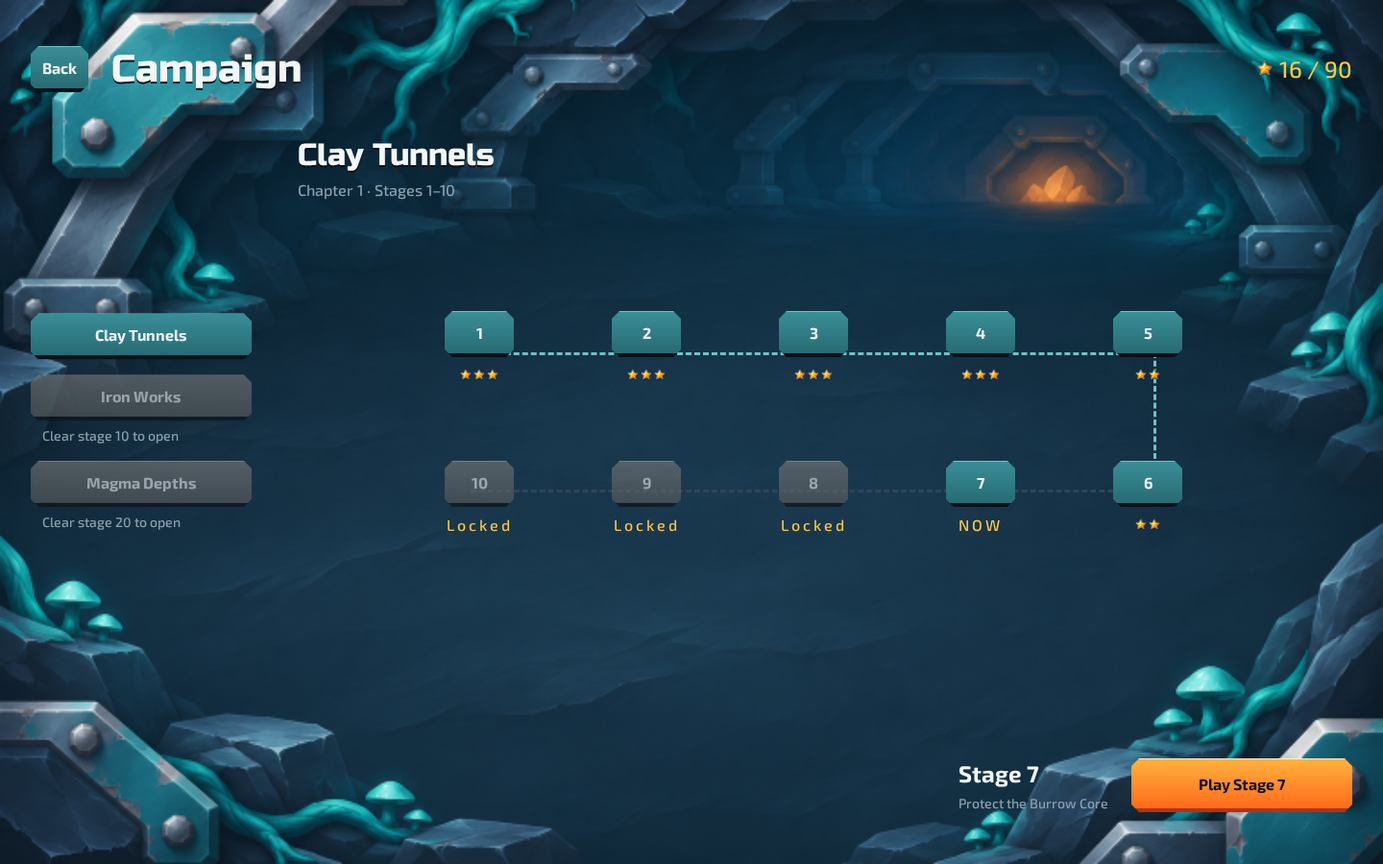
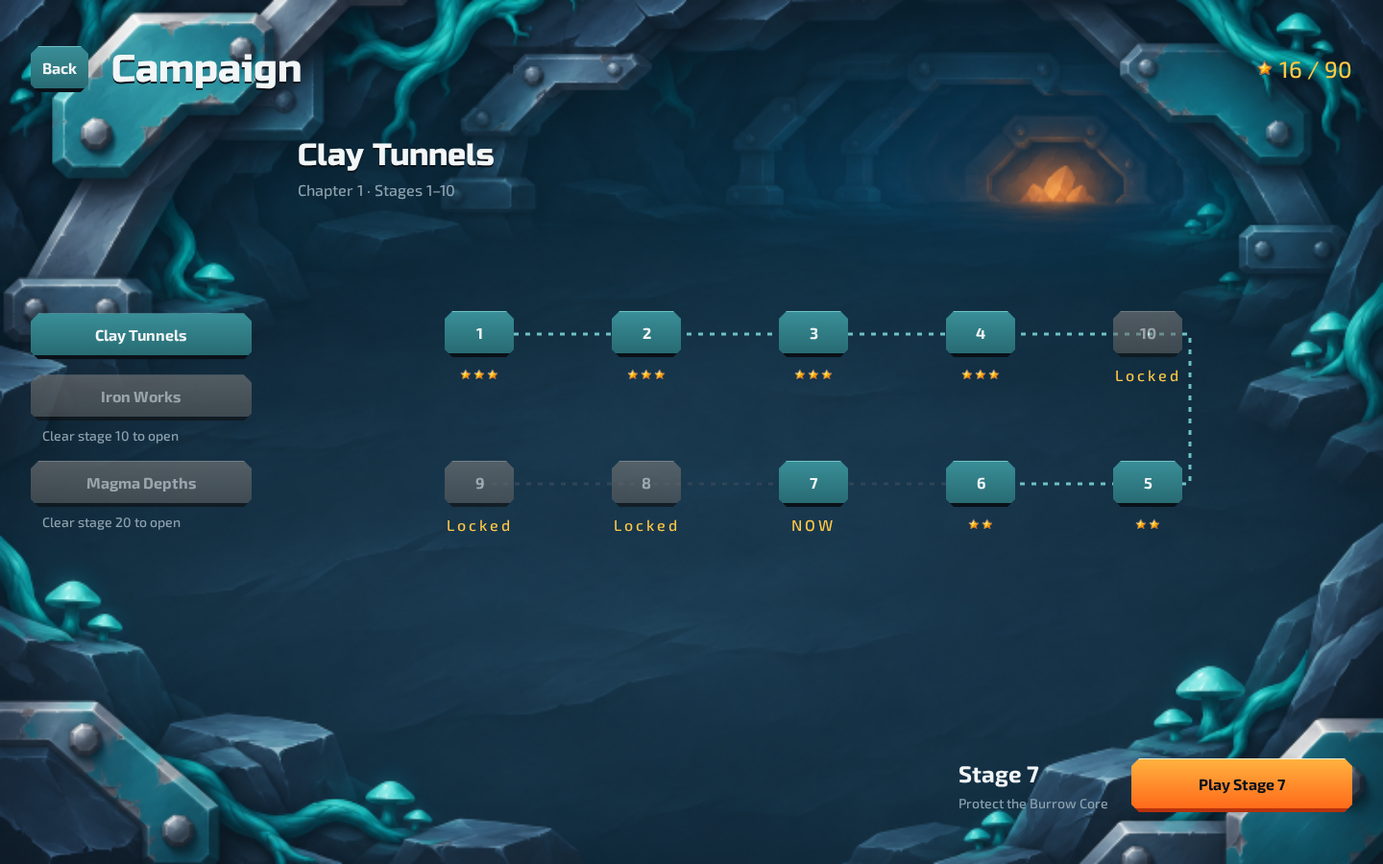
[checkpoint] step 6afed5bc4b8d342701213777

Changed region(s): [[0.7812, 0.3422, 0.875, 0.4667], [0.5625, 0.5289, 0.625, 0.6222], [0.6875, 0.5911, 0.7188, 0.6222]]

diff --git a/design/mockups/main/stage-map/index.html b/design/mockups/main/stage-map/index.html
@@ -5,6 +5,7 @@
 @media(min-width:700px) and (max-height:550px){#screen{grid-template:48px 1fr 64px / 152px 1fr 180px;padding:12px;gap:8px}.map-header h1{font-size:24px}.map-header .total{font-size:18px}.chapters{gap:8px}.chapter-slot small{font-size:11px}.map-caption{top:0;left:8px}.map-caption h2{font-size:20px;margin:0}.map-caption p{font-size:13px}.nodes{height:168px;margin-top:34px;gap:8px}.nodes:before{height:84px}.node{gap:2px}.node [data-kit-host]{width:58px}.node .stars{font-size:12px;height:14px}.map-footer{gap:16px}.selected-copy strong{font-size:18px}.play-slot{min-width:180px}}
 @media(max-width:699px){#screen{display:grid;grid-template:54px 122px 1fr 104px / 1fr;gap:12px;padding:16px}.map-header{grid-column:1;gap:12px}.map-header h1{font-size:24px}.map-header .total{font-size:18px}.chapters{display:grid;grid-template-columns:repeat(3,1fr);gap:8px;align-self:start}.chapter-slot small{display:none}.map-content{grid-column:1}.map-caption{top:0;left:8px}.map-caption h2{font-size:24px}.map-caption p{font-size:14px}.nodes{width:240px;height:100%;max-height:430px;margin-top:32px;grid-template-columns:1fr 1fr;grid-template-rows:repeat(5,1fr);gap:2px 32px}.nodes:before{left:25%;right:25%;top:10%;bottom:10%;height:auto;border:0;border-left:3px dashed #6FC2C4;border-right:3px dashed #2F4558}.node{gap:0}.node [data-kit-host]{width:64px}.node .stars{font-size:12px;height:15px}.node:nth-child(1){grid-area:1/1}.node:nth-child(2){grid-area:1/2}.node:nth-child(3){grid-area:2/2}.node:nth-child(4){grid-area:2/1}.node:nth-child(5){grid-area:3/1}.node:nth-child(6){grid-area:3/2}.node:nth-child(7){grid-area:4/2}.node:nth-child(8){grid-area:4/1}.node:nth-child(9){grid-area:5/1}.node:nth-child(10){grid-area:5/2}.map-footer{grid-column:1;gap:12px;align-items:center}.selected-copy strong{font-size:18px}.selected-copy small{font-size:12px}.play-slot{min-width:180px}}
 @media(max-width:699px){#screen{grid-template-rows:54px 72px 1fr 104px}.nodes{height:340px;max-height:none;margin-top:64px}.map-caption p{margin-top:4px}}
+.nodes:before{display:none}.route-lines{position:absolute;inset:0;width:100%;height:100%;pointer-events:none;z-index:0}@media(max-width:699px){.chapters{--preview-control-height:64px}}
 </style></head><body><main id="screen"></main><script type="module">
 import {boot,button,t} from '../../shared.mjs';
 const app=await boot('stage-map');
@@ -13,5 +14,5 @@ button(app.root.querySelector('#back'),t('ui.common.back'),{onclick:()=>location
 for(let i=1;i<=3;i++){const slot=document.createElement('div');slot.className='chapter-slot';slot.dataset.part='chapter-tab';slot.dataset.state=i===1?'open':'locked';app.root.querySelector('.chapters').append(slot);button(slot,t(`ui.map.chapter_${i}`),{disabled:i!==1});if(i>1){const hint=document.createElement('small');hint.textContent=`Clear stage ${i===2?10:20} to open`;slot.append(hint)}}
 for(let i=1;i<=10;i++){const node=document.createElement('div');node.className='node';node.dataset.part='stage-node';node.dataset.state=i<7?'cleared':i===7?'open':'locked';node.dataset.stars=i<5?'3':i<7?'2':'0';const host=document.createElement('div');node.append(host);button(host,String(i),{disabled:i>7,onclick:()=>{app.root.querySelector('.selected-copy strong').textContent=`Stage ${i}`}});const stars=document.createElement('span');stars.className='stars';if(i<7){stars.innerHTML=Array.from({length:i<5?3:2},()=>'<img src="/assets/ui/icons/rating-star.png" width="14" height="14" alt="Star">').join('')}else stars.textContent=i===7?'NOW':'Locked';node.append(stars);app.root.querySelector('.nodes').append(node)}
 button(app.root.querySelector('.play-slot'),t('ui.map.play',{n:7}),{primary:true,onclick:()=>location.href='../game/'});
-await app.finish();
+const drawPath=()=>{const container=app.root.querySelector('.nodes');container.querySelector('.route-lines')?.remove();const base=container.getBoundingClientRect();const points=[...container.querySelectorAll('.node [data-kit-host]')].map(el=>{const b=el.getBoundingClientRect();return [b.left-base.left+b.width/2,b.top-base.top+b.height/2]});const svg=document.createElementNS('http://www.w3.org/2000/svg','svg');svg.classList.add('route-lines');svg.setAttribute('aria-hidden','true');for(const [subset,color] of [[points.slice(0,7),'#6FC2C4'],[points.slice(6),'#2F4558']]){const line=document.createElementNS(svg.namespaceURI,'polyline');const routed=[];for(let i=0;i<subset.length;i++){const p=subset[i],prev=subset[i-1];if(prev&&Math.abs(prev[0]-p[0])<2&&Math.abs(prev[1]-p[1])>2){const side=p[0]>base.width/2?44:-44;routed.push([prev[0]+side,prev[1]],[p[0]+side,p[1]])}routed.push(p)}line.setAttribute('points',routed.map(p=>p.join(',')).join(' '));line.setAttribute('fill','none');line.setAttribute('stroke',color);line.setAttribute('stroke-width','3');line.setAttribute('stroke-dasharray','5 7');svg.append(line)}container.prepend(svg)};await document.fonts.ready;await new Promise(requestAnimationFrame);drawPath();addEventListener('resize',drawPath);await app.finish();
 </script></body></html>

diff --git a/design/mockups/main/game/index.html b/design/mockups/main/game/index.html
@@ -6,6 +6,7 @@ html,body{margin:0;width:100%;height:100%;overflow:hidden}#screen{--field:min(85
 @media(min-width:700px) and (max-height:550px){#screen{--field:calc(100svh - 16px);padding:8px;gap:8px;grid-template-columns:minmax(144px,1fr) var(--field) minmax(176px,1fr)}.status{padding:0 16px;gap:16px}.stage-value{font-size:32px}.stats{gap:16px}.stat dd{font-size:24px}.stat dt{font-size:11px}.controls{padding:0 8px;gap:8px}.movement{gap:2px}.move-caption,.keyboard{display:none}.fire [data-kit-host]{min-height:48px}.boosters{gap:4px;grid-template-columns:1fr}.action-group{gap:4px}.core-note{font-size:12px}.stage-label{font-size:12px}}
 @media(max-width:699px){#screen{--field:100vw;display:grid;grid-template-columns:1fr;grid-template-rows:48px 100vw 1fr;padding:0;gap:0;align-items:start}.status{display:flex;flex-direction:row;justify-content:space-between;align-items:center;gap:8px;max-width:none;padding:0 12px;height:48px;justify-self:stretch}.stage-head{display:flex;align-items:center;gap:5px}.stage-label{font-size:14px;letter-spacing:0}.stage-value{font:700 20px/1 'Exo 2',sans-serif;margin:0}.stats{display:flex;gap:14px}.stat{gap:0;text-align:center}.stat dt{font-size:14px;letter-spacing:0}.stat dd{font-size:18px;line-height:1.2}.core-note,.status .pause{display:none}.controls{padding:20px 16px 16px;max-width:none;display:grid;grid-template-columns:1fr 1fr;gap:16px;align-self:stretch;align-content:center}.movement-group{grid-column:1;grid-row:1/3;align-self:center}.movement{gap:6px}.movement .up{grid-row:1}.fire{grid-column:2}.boosters{grid-column:1/-1;grid-row:3;grid-template-columns:repeat(3,1fr);gap:8px}.pause-mobile{grid-column:2;grid-row:2}.keyboard{display:none}.move-caption{text-align:left;margin-bottom:12px}.action-group{display:contents}.fire [data-kit-host]{min-height:64px}.boosters [data-kit-host]{min-width:0}}
 @media(min-width:700px){.pause-mobile{display:none}}
+@media(max-width:699px){.controls{align-content:start;padding-top:16px;gap:16px}.move-caption{display:none}.boosters{--preview-control-height:64px}}
 </style></head>
 <body><main id="screen"></main><script type="module">
 import {boot,button,t} from '../../shared.mjs';

diff --git a/design/mockups/controls.css b/design/mockups/controls.css
@@ -1,3 +1,3 @@
 /* Preview adapter: measures and material copied from docs/skin/map.json id-button-face.
    Replaced by the production skin at integration; no base theme imported or edited. */
-:host{display:block;width:100%;font:700 16px/1.2 'Exo 2',sans-serif;color:#F2F6F7}.control{display:flex;width:100%}.mp-button{width:100%;min-width:48px;min-height:48px;padding:10px 12px;white-space:normal;clip-path:polygon(8px 0,calc(100% - 8px) 0,100% 8px,100% calc(100% - 8px),calc(100% - 8px) 100%,8px 100%,0 calc(100% - 8px),0 8px);background:linear-gradient(#398e97,#286b73);border-top:1px solid #6FC2C4;border-bottom:4px solid #0A1118;color:#F2F6F7;box-shadow:0 2px 4px #0a11183d}.mp-button--primary{min-height:56px;background:linear-gradient(#FFB23F,#FF6A1A);color:#0A1118;border-top-color:#FFF4D6;border-bottom-color:#B8320C}.mp-button:disabled{filter:grayscale(1);opacity:.6}.mp-button:active:not(:disabled){transform:translateY(2px);border-bottom-width:2px}.mp-button:focus-visible{outline:2px solid #CFE6E8;outline-offset:2px}
+:host{display:block;width:100%;font:700 16px/1.2 'Exo 2',sans-serif;color:#F2F6F7}.control{display:flex;width:100%}.mp-button{width:100%;min-width:48px;min-height:var(--preview-control-height,48px);padding:10px 12px;white-space:normal;clip-path:polygon(8px 0,calc(100% - 8px) 0,100% 8px,100% calc(100% - 8px),calc(100% - 8px) 100%,8px 100%,0 calc(100% - 8px),0 8px);background:linear-gradient(#398e97,#286b73);border-top:1px solid #6FC2C4;border-bottom:4px solid #0A1118;color:#F2F6F7;box-shadow:0 2px 4px #0a11183d}.mp-button--primary{min-height:var(--preview-control-height,56px);background:linear-gradient(#FFB23F,#FF6A1A);color:#0A1118;border-top-color:#FFF4D6;border-bottom-color:#B8320C}.mp-button:disabled{filter:grayscale(1);opacity:.6}.mp-button:active:not(:disabled){transform:translateY(2px);border-bottom-width:2px}.mp-button:focus-visible{outline:2px solid #CFE6E8;outline-offset:2px}

diff --git a/design/mockups/results/stage-clear/index.html b/design/mockups/results/stage-clear/index.html
@@ -12,6 +12,7 @@
 .actions{grid-column:2;display:grid;grid-template-columns:1fr 1fr;gap:8px;width:100%;max-width:420px;justify-self:center}.actions>.next{grid-column:1 / 3}.actions>div{min-height:48px}.actions>div>*{width:100%}
 @media(max-width:600px) and (orientation:portrait){.clear{padding:24px 24px 20px;min-height:100dvh;grid-template-columns:1fr;gap:16px;align-content:center}.clear-heading{grid-column:1;grid-row:1;text-align:center}.eyebrow{font-size:12px}.stars{justify-content:center;margin-top:12px}.stars img{width:44px;height:44px}.reward{grid-column:1;grid-row:2;gap:4px}.reward-picture{width:min(64vw,240px)}.reward figcaption{font-size:16px}.reward-label{display:none}.breakdown{grid-column:1;grid-row:3}dl{gap:6px;font-size:14px}.total{margin-top:2px;padding-top:8px}.total dd{font-size:24px}.best{font-size:12px}.actions{grid-column:1;grid-row:4}.count{font-size:24px;bottom:10px;right:12px}}
 @media(max-height:500px) and (orientation:landscape){.clear{width:min(920px,100%);min-height:100dvh;padding:20px 40px;grid-template-columns:1fr 1fr;gap:12px 40px}.clear-heading{grid-row:1}.eyebrow{font-size:12px;margin-bottom:4px}h1{font-size:28px}.stars{margin-top:8px;gap:6px}.stars img{width:36px;height:36px}.breakdown{grid-row:2}dl{gap:6px;font-size:14px}.total{padding-top:8px;margin-top:2px}.total dd{font-size:24px}.best{font-size:12px}.reward{grid-row:1 / 3;gap:2px}.reward-picture{width:190px}.reward figcaption{font-size:16px}.reward-label{display:none}.count{font-size:24px;bottom:8px;right:12px}.actions{grid-column:2;grid-row:3;gap:8px;grid-template-columns:1fr 1fr 1fr;max-width:none}.actions>.next{grid-column:auto}}
+@media(max-height:500px) and (orientation:landscape){.actions{--preview-control-height:56px}}
 </style>
 </head>
 <body>

diff --git a/design/mockups/GALLERY.html b/design/mockups/GALLERY.html
@@ -1,0 +1,1 @@
+<!doctype html><html lang="en" data-ready="true"><meta charset="utf-8"><meta name="viewport" content="width=device-width"><title>Iron Burrow — Screen review</title><link rel="stylesheet" href="shared.css"><style>body{padding:32px}nav{display:flex;gap:24px;flex-wrap:wrap}img{display:block;margin-top:24px;max-width:100%}</style><h1>Iron Burrow</h1><p>Five game screens · Three responsive sizes</p><nav><a href="main/lobby/">Lobby</a><a href="main/stage-map/">Campaign</a><a href="main/game/">In-level</a><a href="results/stage-clear/">Stage Clear</a><a href="results/defeat/">Defeat</a></nav><img src="CONTACT_SHEET.png" alt="All fifteen screen views">

diff --git a/design/mockups/JUDGE_ART.md b/design/mockups/JUDGE_ART.md
@@ -1,0 +1,41 @@
+# Iron Burrow — независимое арт-ревью, один проход
+
+Роль: арт-директор F2P. Применён `design-judge`. Оценены `CONTACT_SHEET.png`, `GRAYSCALE.png`, дополнительно исходные снимки game 844×390, stage-map 390×844 и stage-clear 844×390. Прочитаны `design/system/UI_ART_BIBLE.md`, `SYSTEM.md`, `VERIFY.json`. Экраны не менялись, генерация и браузер не запускались.
+
+**Статус: WARN / приёмка не подтверждена.** В foundation нет принятого эталона экрана: только material/style reference. По правилу design-judge численная **consistency = N/A** для всех экранов; gap «нет эталонов». Соответствие описанной системе ниже обсуждается качественно и не заменяет consistency. Пороги QUALITY_TARGETS в переданный набор доказательств не входят; автоматический PASS по ним не объявляется.
+
+| Экран | polish /10 | consistency /10 | Центрирование /10 | shippable | Главный gap |
+|---|---:|---|---:|---|---|
+| lobby | 8.0 | N/A | 8.5 | нет, требует приёмки | Разница детализации иллюстрации и почти плоских контролов; нет экранного эталона |
+| stage-map | 7.0 | N/A | 7.5 | нет | В портрете соединитель проходит через номера/подписи узлов; неодинаковая высота переключателей глав |
+| game | 8.0 | N/A | 8.5 | нет, требует приёмки | Горячие стены конкурируют с Core; не доказана читаемость динамических объектов в движении |
+| stage-clear | 7.5 | N/A | 8.0 | нет, требует приёмки | Награда выглядит отдельной прямоугольной сценой, слабо связанной с типографикой результата |
+| defeat | 7.5 | N/A | 8.5 | нет, требует приёмки | Большая светящаяся иллюстрация Core визуально сильнее сообщения о потере |
+
+`shippable` здесь означает финальную готовность показывать игрокам без правок. Оценка статического нормального состояния не подтверждает готовность всех состояний и размеров текста. Отсутствие приёмки не означает, что каждый экран имеет отдельный критический дефект.
+
+## Что работает
+
+Холодная сталь, бирюзовая техника и оранжевый Core читаются как одна игра. Растровые объекты объёмны; основные кнопки узнаваемы по тёплому цвету и срезанным углам. Поле игры заполнено осмысленной геометрией. На каждом экране основной CTA находится быстро. В grayscale сохраняются заголовки, светлые надписи, кнопки и центральное ядро; одних цветовых различий для основы иерархии не требуется. В результатах вторичные действия отделены от главного.
+
+## Замечания и исправления
+
+| ID | Severity | Экран / зона | Наблюдение | Что поправить / проверить |
+|---|---|---|---|---|
+| ART-01 | MAJOR / evidence | все | Нет утверждённого экранного эталона для consistency | Принять один экран как композиционный эталон; затем сравнить соседние, не подменяя эталон материальным референсом |
+| ART-02 | MAJOR | stage-map, портрет, путь уровней | Пунктир проходит по оси левого столбца и пересекает цифры 8/9 и подписи Locked; маршрут между соседними узлами не прослеживается уверенно | Провести соединители позади и между карточками, исключить пересечение текста; сохранить последовательность 1→10 |
+| ART-03 | MINOR | stage-map, портрет, переключатели глав | Clay Tunnels и Magma Depths двухстрочные и выше однострочного Iron Works. Нижние края ряда разъезжаются | Задать общую высоту ряда, одинаково центрировать одно- и двухстрочные подписи |
+| ART-04 | MINOR | lobby / все действия | Сочные иллюстрации имеют заклёпки, отражения, материальную глубину; кнопки в сравнении выглядят простыми градиентными пластинами | При разработке скина добавить согласованный тонкий контур/внутренний скос и верхний свет из библии, сохранив читаемость текста |
+| ART-05 | MINOR | game, поле | Оранжевые блоки занимают большую площадь и в цвете соперничают с тёплым Core | Проверить на игровом размере фокус и различимость снарядов в движении; при необходимости приглушить стены, сохранить световой максимум ядра |
+| ART-06 | MINOR | stage-clear, блок награды | Квадратная иллюстрация с собственным окружением обрывается жёсткими границами; подпись вынесена отдельно | Свести награду и подпись в один намеренный компонент/рамку с общим материалом; визуально связать с результатом |
+| ART-07 | MINOR | defeat, иллюстрация | Целое ярко светящееся ядро привлекает сильнее, чем состояние «Core lost» | Подчеркнуть потерю повреждением/приглушением или однозначным знаком состояния, не создавая второй яркий CTA |
+| ART-08 | evidence | все | Предъявлены обычные статические состояния; нет pressed/loading/error/offline, длинных строк, симуляций цветового зрения и измерения safe-area | Не считать эти проверки пройденными. Проверить на следующей разрешённой стадии; grayscale не заменяет deuteranopia/protanopia |
+
+## Центрирование и механика
+
+У основных CTA и D-pad заметного смещения надписей внутри кнопок не видно. Портретные результаты симметричны относительно центральной оси; настольные композиции намеренно двухколоночные, это не дефект центрирования. У stage-map нарушен общий нижний край переключателей глав; путь узлов требует исправления отдельно от центрирования цифр. Точные оптические отступы небольших иконок нельзя подтвердить уменьшенным общим листом.
+
+`VERIFY.json`: 15 видов (пять экранов × три размера), `ready=true`, overflow x/y = 0, `broken=[]`, `unresolved=[]`, `issues=[]`; перечисленные кнопки не ниже 48px. Это механические факты данного отчёта, не визуальный PASS. Отчёт не доказывает SDK-интеграцию, финальную поставку шрифтов, raster budget, доступность всех состояний или корректность поведения игры. Gameplay обозначен как static visualization. Для экранов итогового разрешения полезно сохранить текущие изображения и исправлять только подтверждённые gaps; новая генерация всего набора не требуется.
+
+## Ответ автора после ревью
+Маршрут заменён линиями между фактическими узлами; вертикальные переходы вынесены в боковые коридоры вне номеров и подписей. Высота вкладок выровнена. Независимая повторная оценка не запрашивалась; первоначальный WARN не превращён в PASS.

diff --git a/design/mockups/JUDGE_LAYOUT.md b/design/mockups/JUDGE_LAYOUT.md
@@ -1,0 +1,32 @@
+# Iron Burrow — независимый review вёрстки
+
+Роль: строгий ревьюер вёрстки. Основание: UI_ART_BIBLE.md, SYSTEM.md, CONTACT_SHEET.png, VERIFY.json и отдельные screenshots из contact/. Только screenshot/report review; браузер, генерация и изменение экранов не выполнялись.
+
+Предел оценки: утверждённого эталона композиции экранов нет; STYLE_REF — материальный якорь, а не screen reference. Баллы оценивают видимую иерархию, читаемость, адаптацию и соответствие описанной системе. Поведение, локализация, фактический SDK/UI Kit и интерактивные состояния по этим изображениям не подтверждены.
+
+| Экран | Polish /10 | Consistency /10 | Shippable | Центрирование и gaps |
+|---|---:|---:|---|---|
+| lobby | 8 | 8 | YES, с замечаниями | В портрете заголовок/CTA/прогресс центрированы; artwork намеренно обрезан по бокам. Шапка повторяет название hero; улучшить ритм перехода artwork → контент. На desktop композиция визуально уравновешена двумя колонками. |
+| stage-map | 6 | 7 | NO | В портрете сетка чисел центрирована, но маршрут и порядок переходов не читаются; chapter tabs имеют разную высоту. На landscape заголовок и карта последовательно начинаются после sidebar; footer CTA выровнен вправо оправданно. |
+| game | 7 | 7 | NO | Поле центрировано по экрану в landscape, по ширине в портрете. Портретные controls имеют неровные строки, слишком большой пустой разрыв от поля. Расстановка не создаёт уверенного thumb-control блока. |
+| stage-clear | 8 | 8 | YES, с замечаниями | Портретный title/stars/artwork/CTA оптически центрирован. В landscape правый reward block и ряд actions смещают массу вправо, но grid остаётся понятным. Разная высота соседних кнопок создаёт неровную нижнюю линию. |
+| defeat | 8 | 8 | YES, с замечаниями | Портретные artwork/title/Continue центрированы, статистика симметрична. Поддерживающий текст выровнен влево и отделён от центральной группы; это читаемо. Landscape сохраняет ясные две колонки. |
+
+## Визуальные проблемы, независимые от mechanical PASS
+
+1. **P1 — stage-map, 390×844: маршрут не адаптирован под snake-grid.** Пунктир виден вертикально через левую колонку, в том числе сквозь locked 8/9, тогда как номера идут 1→2→3→4→5→6→7. Нет ясной последовательной связи горизонтальных пар и переходов между рядами. Исправить геометрию соединений для портретной сетки; вести линии под узлами и не через подписи. Evidence: contact/main-stage-map-390x844.png.
+2. **P2 — stage-map, 390×844: chapter tabs разной высоты.** Clay Tunnels и Magma Depths переносятся на две строки, Iron Works остаётся коротким: VERIFY даёт 63.375/48/63.375 px. Визуальный ряд выглядит несобранным. Выравнять высоту всех трёх tabs и положение подписи. Evidence: тот же screenshot.
+3. **P2 — game, 390×844: booster row разной высоты и неудачный перенос.** Shockwave · 1 ломается на две строки, соседние Shield/Fortress остаются однострочными; средняя кнопка 63.375 px против 48 px. Выровнять heights, сохранить читаемое число и не оставлять точку с числом отдельным обрывком. Evidence: contact/main-game-390x844.png.
+4. **P2 — game, 390×844: около 100 px пустоты между нижней границей поля (~435) и FIRE (~538), затем несколько несогласованных baseline.** MOVE и FIRE начинаются на разных высотах, D-pad и Pause заканчиваются почти вместе случайно, boosters образуют третью тяжёлую полосу. Собрать управление в согласованный компактный блок, с одним ясным расстоянием от поля. Центрирование кнопок внутри собственной формы корректно; проблема в группировке.
+5. **P2 — общий material gap.** Artwork имеет богатый кованый объём и детали, а UI plates остаются почти плоскими градиентными clipped-corner плашками. Геометрия и palette узнаваемы; глубина/верхний bevel/нижняя тень заметно слабее иллюстраций. Это влияет на consistency, но полное требование production skin по screenshots не проверяется.
+6. **P3 — stage-clear, 844×390: Next Stage 56 px, Replay/Map 48 px в одном горизонтальном ряду при одинаковом top.** Нижняя линия скачет на 8 px. Иерархия primary уже передана цветом; выравнивание heights улучшит polish. Evidence: contact/results-stage-clear-844x390.png.
+7. **P3 — lobby: повтор Iron Burrow в header и hero, особенно заметный в портрете.** Не блокирует сценарий; полезно сократить вторичный title или усилить роль названия главы.
+
+## Вывод
+
+Набор визуально связный, основные CTA читаемы, явных обрезанных текстов и выходов за viewport в просмотренных screenshots не видно. Общая готовность: **NO до исправления портретного маршрута stage-map и упорядочивания controls game**. По всем пяти экранам средние polish 7.4/10, consistency 7.6/10.
+
+VERIFY.json сообщает pass=true для 15 views, overflow=0, broken=[], issues=[], кнопки не меньше 48 px. Это подтверждает механическую вместимость и размеры целей; PASS не проверяет геометрию маршрута, визуальную группировку, равные высоты peer-controls, композицию или production runtime. Точность alpha, контраст по численным WCAG и состояния hover/focus/pressed здесь отдельно не измерялись.
+
+## Ответ автора после ревью
+Исправлено одной группой: геометрия маршрута строится от фактических центров кнопок; вертикальные переходы обходят подписи сбоку. Вкладки и бустеры имеют одинаковую высоту в своих рядах. Портретные controls собраны сразу под полем. Кнопки результата в ландшафтном ряду выровнены по высоте. Material gap оставлен интеграции готового скина; повторной независимой оценки нет, первоначальные баллы не изменены.

diff --git a/design/mockups/REPORT.md b/design/mockups/REPORT.md
@@ -1,0 +1,29 @@
+# Iron Burrow — макеты собственных экранов
+
+Готовы 5 адаптивных HTML-макетов × 3 размера = 15 видов: Lobby, Stage Map, Game, Stage Clear, Defeat. Навигация — GALLERY.html. Растр — assets/ui/screens/, перечень — SCREENS.json, проверенный список непустых файлов — FILES.txt. Сервисные окна, загрузка, ошибки и длинные строки не создавались.
+
+Пять иллюстраций созданы встроенным Codex image_gen параллельно отдельными сабагентами, по одному вызову и сохранению на экран. Точные запросы и исходные пути инструмента — ASSETS.md каждого экрана. Каждый запрос использовал STYLE_REF.png и художественные разделы UI_ART_BIBLE дословно; отдельного готового шаблона в библии нет. Исходники только -2x.png, чётные стороны. Уменьшение и WebP сделаны одним общим `npm run assets -- --webp=85 assets/ui/screens`. Пять файлов 2x + пятнадцать производных; problems = 0. Полный вывод — ASSETS_PROCESS.txt / ASSETS_CHECK.txt. Скрипт шаблона печатает таблицу даже при успехе: «без единой строки» для этой версии невозможно, exit = 0 и problems = 0.
+
+Кнопки построены настоящим createViewComponent + button UI Kit. Нейтральный слой расширен общим preview-адаптером по уже описанному id-button-face из docs/skin/map.json. Готового подключаемого скина и обещанного контракта имён кнопок в design/system/SYSTEM.md нет. Новые варианты рамок/кнопок не генерировались; SDK, UI Kit, базовая тема и design/system не менялись. На интеграции общий preview-адаптер должен уступить готовому скину. Макеты используют статические демонстрационные данные, не заменяют сервисы SDK.
+
+92 игровых ассета и 24 детали скина из ГДД принадлежат соседним шагам. Их не создавали и не подменяли этими пятью композиционными иллюстрациями. Поле S05 — визуальный эталон состояния уровня; реализация механики будет использовать отдельные тайлы/спрайты. Файлы чужих бинарных иконок, намеренно отсутствующие в worktree, проверочный сервер читает из основного checkout только для чтения. Никакого восстановления этих файлов в чужие каталоги нет.
+
+## Проверки и пределы результата
+
+- Браузер: 15/15 видов, без переполнений, битых изображений, неразрешённых ключей и ошибок JS; видимые кнопки ≥48 px. VERIFY.json содержит размеры и DOM-факты. HTML получает data-ready после шрифтов/изображений; data-window соответствует ГДД.
+- Общий browser-прогон после сведения; повторялся только для найденных ошибок подключения CSS и затем группы замечаний судей. Картинки не перегенерировались, обработка не повторялась. CONTACT_SHEET.png и GRAYSCALE.png — самопроверка, не замена HTML-макетов.
+- Два независимых судьи: JUDGE_ART.md и JUDGE_LAYOUT.md. Исправлены мешающий подписям маршрут карты, высоты вкладок/бустеров, группировка controls и высоты ряда результата. Исходные баллы сохранены, независимого повторного утверждения нет. Material gap между иллюстрациями и preview-кнопками остаётся долгом подключения скина. Consistency по утверждённому экранному эталону не подтверждена: foundation содержит только материальный якорь.
+- Самопроверка по художественной библии: горячий акцент выделяет primary/Core, иерархия сохраняется в grayscale. Из результатов исключена отдельная карточка оффера, из экранов — лишние сервисные состояния. Замечания о горячих стенах поля и стилистической интеграции награды сохранены в ревью; визуальный PASS не заявлен.
+- `npm run check` с Playwright запущен один раз. Сборка и пары растров прошли; общий результат не зелёный из-за записей/шаблона вне writeSet. Полный вывод — PROJECT_CHECK.txt.
+- Официальный palette: FAIL конфигурации — нет gates.art.budgetOfRoot, art.paletteDeltaEMax/Percentile не измерены. Порогов самостоятельно не выдумывали. PALETTE_GATE.txt.
+- `studio-gates visual` сравнивает внедрённую игру с макетами, а внедрение здесь не выполнялось. Попытка этого сравнения остановлена; официальный df-visual PASS не заявлен. VISUAL_GATE.txt.
+- Отдельный запуск стенда — STARTUP_CHECK.txt; это проверка существующего приложения, не макетов.
+
+## Чего не хватает у платформы / для сведения
+
+1. Передать gates.art.budgetOfRoot через gate-facts и пороги palette из источника качества — тот же незакрытый пункт verify-design-foundation.
+2. Готовый подключаемый скин и контракт имён его контролов: SYSTEM.md содержит правила стиля, но не экспортируемые компоненты/имена. Использован описанный в docs/skin/map.json общий preview-адаптер; финальная визуальная приёмка — после подключения скина.
+3. Общие записи и шаблон расходятся: localization/strings без defaultLocale/locales, в коде остались отсутствующие item_coins / placement_shop / reward_daily; пять unit-провалов относятся к этому расхождению. Править configs, src/boot и src/skin в этом шаге нельзя.
+4. package-lock.json не добавлялся: package.json и файлы установки защищены инструкциями; scripts/assets.mjs и команда assets уже есть, прежнее замечание об их отсутствии устарело.
+
+Решения с обоснованиями внесены в docs/gdd/DECISIONS.md (D-MOCK-01…05). Итог: артефакты экранов созданы и механически проверены; общая/визуальная приёмка остаётся с явно указанными долгами.
